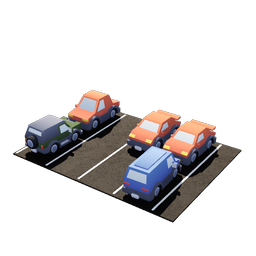
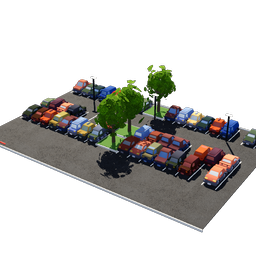
GAPS.md: the full list of gaps to Cities: Skylines; A1 car parks at real scale
- Surface car park is now 12x8 tiles holding 72 bays (180 fans, about 2.5
  per car), laid out with back-to-back rows, aisles, bay lines, a planted
  island with trees, lamp posts, pay station and entry barrier
- New multi-storey car park (unlocks at 20,000 fans): four decks plus the
  roof, columns, parapets, ramps, a stair and lift core with a big P, cars
  on every level (900 fans)

Claude-Session: https://claude.ai/code/session_019GL9DZKUN4T6LdW8KYydwH

diff --git a/GAPS.md b/GAPS.md
@@ -1,0 +1,74 @@
+# Gaps to Cities: Skylines quality
+
+Worked through top to bottom, one at a time. `[x]` = done (with the commit), `[ ]` = to do.
+Every item is checked by rendering screenshots and comparing against the references.
+
+## A. Scale and correctness bugs
+- [x] A1 Car park shows ~6 cars for ~600 fans: size it to its capacity (rows of bays, lanes, many cars, kerbs, lighting, trees in islands)
+- [ ] A2 Bus stop / train station / garage / subway capacities match what you see (buses queued, platform length)
+- [ ] A3 Facility footprints read at the right real-world scale next to stands (kiosks, toilets vs a 20 m stand)
+- [ ] A4 Museum/hotel/ticket office placement fails silently in some spots: show why, snap to valid ground
+
+## B. Stadium architecture
+- [ ] B1 Stand back walls: real cladding (panels with depth, mullions, louvres), stair/ramp towers, glazed concourse bands, dark base
+- [ ] B2 Stand side/end walls: finished faces, vomitories, exposed raking beams when open
+- [ ] B3 Roof undersides: steel purlins, lights, speakers, translucent leading edge
+- [ ] B4 Roof materials: standing-seam metal with sheen and panel lines, gutters, edge flashing
+- [ ] B5 Seats: real moulded seat shape, row numbers, aisle steps with yellow nosing, handrails
+- [ ] B6 Concrete materials: board-marked, weathered tone variation, AO in corners (not plastic white)
+- [ ] B7 Corner stands: same facade treatment as side stands
+- [ ] B8 Floodlight pylons and roof-mounted lights: detailed heads, ladders, cable trays
+- [ ] B9 Pitch-side: perimeter wall, tunnel entrance, technical area, ball boys' stools, camera gantry
+- [ ] B10 Executive boxes and hospitality glass with interiors lit at night
+
+## C. Pitch
+- [ ] C1 Pitch grass: real turf texture, mowing sheen from the sun angle, wear in goalmouths
+- [ ] C2 Line paint with slight blur/soak, corner flags, penalty spots
+- [ ] C3 Goal nets with depth and shadow; goal frames with proper profile
+
+## D. Terrain and nature
+- [ ] D1 Terrain textures: higher-res grass, meadow flowers, dirt paths, field edges
+- [ ] D2 Grass clutter (3D tufts) near the camera
+- [ ] D3 Tree variety and LOD: more species, sizes, autumn tints; clumps not grids; impostors far away
+- [ ] D4 Bushes, hedgerows and flower beds with proper leaf cards
+- [ ] D5 Water: reflections, shoreline foam, depth colour, reeds
+- [ ] D6 Rocks and cliffs on slopes
+
+## E. Town and roads
+- [ ] E1 Roads: lane markings, kerbs, pavements, crossings, junction shapes, road texture with wear
+- [ ] E2 Streetlights along roads, signs, traffic lights at junctions
+- [ ] E3 Building variety: more house types, porches, dormers, gardens with fences and sheds
+- [ ] E4 Building materials: textured brick/render/siding, window frames with depth, roof textures
+- [ ] E5 Town blocks: back gardens, alleys, parking courts, corner shops
+- [ ] E6 City edge: mid-rises with detailed facades, rooftop details
+- [ ] E7 Industrial/commercial zones with lots, trucks, signage
+- [ ] E8 Railway line with track, catenary, a station
+
+## F. Life
+- [ ] F1 Moving cars on roads
+- [ ] F2 Pedestrians walking to the ground on matchday, crowds at turnstiles
+- [ ] F3 Parked cars in streets and driveways
+- [ ] F4 Buses arriving at the bus stop on matchday
+- [ ] F5 Birds / flags in wind / smoke from chimneys
+
+## G. Lighting and rendering
+- [ ] G1 Sun and sky: richer HDRI usage, sun colour by time of day, soft long shadows
+- [ ] G2 Ambient occlusion tuned for small details; contact shadows
+- [ ] G3 Colour grading: gentle contrast and saturation like C:S, less washed out
+- [ ] G4 Depth of field / tilt-shift option for close views
+- [ ] G5 Night: warm street lighting pools, lit windows, floodlight glow and bloom
+- [ ] G6 Weather: wet surfaces and puddles in rain, snow cover on roofs and ground
+
+## H. UI
+- [ ] H1 Consistent C:S-style panel design: header bars, info panels with icons and numbers
+- [ ] H2 Info views (overlays): crowd density, transport reach, noise, money heat-map
+- [ ] H3 Tooltips with previews and stats for every build item
+- [ ] H4 Placement feedback: green/red footprint grid, snapping guides, cost floating by the cursor
+- [ ] H5 Notifications as icons above buildings (needs a kiosk, queues, etc.)
+- [ ] H6 Main menu / new game screen with club setup
+- [ ] H7 Sound effects for UI clicks and building
+
+## I. Gameplay depth (visual side)
+- [ ] I1 Matchday: players on the pitch, ball, goal celebrations shown
+- [ ] I2 Crowd animation: standing, cheering, scarves, flags waving
+- [ ] I3 Stadium construction animation (scaffolding, cranes) instead of instant appearance
